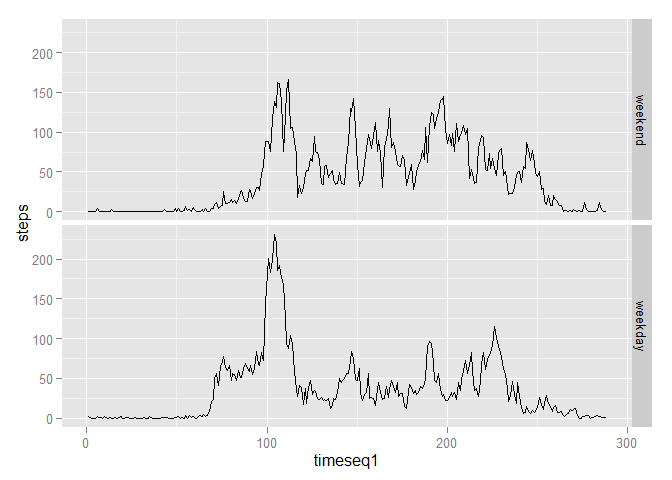
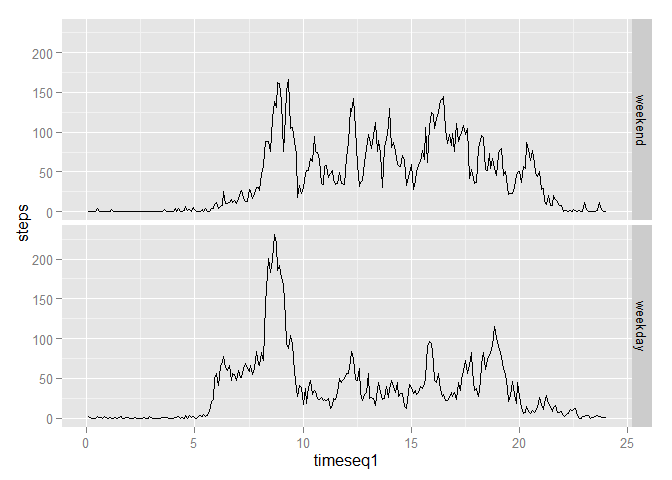
new commit

diff --git a/PA1_template.html b/PA1_template.html
@@ -98,10 +98,11 @@ print(mm)</code></pre>
 averageperinterval=dcast(datamelt,interval~variable,mean)
 #time sequence
 timeseq=1:nrow(averageperinterval)
+timeseq=timeseq*5/60
 #make the plot
 plot(timeseq,averageperinterval$steps,type=&quot;l&quot;,xlab=&quot;5-minute interval index&quot;,
      ylab=&quot;average steps&quot;,main=&quot;average steps by 5-minute intervals&quot;)</code></pre>
[2 lines of base64/hex data omitted]
 <pre class="r"><code>#find the maximun value
 x=averageperinterval[averageperinterval$steps==max(averageperinterval$steps),]
 print(x)</code></pre>
@@ -148,7 +149,7 @@ print(mm)</code></pre>
 <pre class="r"><code>#create a factor column to identify if the date is weekend or not
 newdataset$weekday=logical(nrow(newdataset))
 newdataset$date=as.Date(newdataset$date)
-newdataset$weekday=!weekdays(newdataset$date)%in%c(&quot;星期六&quot;,&quot;星期日&quot;) #Change it into Sat or whatever
+newdataset$weekday=!weekdays(newdataset$date)%in%c(&quot;星期六&quot;,&quot;星期日&quot;) #Change it into &quot;Sat&quot; or whatever
 newdataset$weekday=as.factor(newdataset$weekday)
 levels(newdataset$weekday)=c(&quot;weekend&quot;,&quot;weekday&quot;)
 #calculate average steps by 5-minute intervals
@@ -158,6 +159,7 @@ averageperinterval1=dcast(datamelt1,interval+weekday~variable,mean)
 #time sequence
 timeseq1=1:(nrow(averageperinterval1)/2)
 timeseq1=rep(timeseq1,each=2)
+timeseq1=timeseq1*5/60
 averageperinterval1=cbind(timeseq1,averageperinterval1)
 #make the plot
 library(ggplot2)
@@ -165,7 +167,7 @@ g=ggplot(averageperinterval1,aes(timeseq1,steps))
 g=g+geom_line()
 g=g+facet_grid(weekday~.)
 g</code></pre>
[2 lines of base64/hex data omitted]
 <p>We can see from the plot that on weekdays, there are more steps made around 8:30(100th interval or so) and less from 11:40(140th interval or so) to 17:00(200th interval or so).</p>
 </div>
 

diff --git a/PA1_template.md b/PA1_template.md
@@ -49,6 +49,7 @@ In this part, I make a plot first to show the average steps made in every 5-minu
 averageperinterval=dcast(datamelt,interval~variable,mean)
 #time sequence
 timeseq=1:nrow(averageperinterval)
+timeseq=timeseq*5/60
 #make the plot
 plot(timeseq,averageperinterval$steps,type="l",xlab="5-minute interval index",
      ylab="average steps",main="average steps by 5-minute intervals")
@@ -129,7 +130,7 @@ This part is to compare if there is any difference of movement pattern between w
 #create a factor column to identify if the date is weekend or not
 newdataset$weekday=logical(nrow(newdataset))
 newdataset$date=as.Date(newdataset$date)
-newdataset$weekday=!weekdays(newdataset$date)%in%c("星期六","星期日") #Change it into Sat or whatever
+newdataset$weekday=!weekdays(newdataset$date)%in%c("星期六","星期日") #Change it into "Sat" or whatever
 newdataset$weekday=as.factor(newdataset$weekday)
 levels(newdataset$weekday)=c("weekend","weekday")
 #calculate average steps by 5-minute intervals
@@ -139,6 +140,7 @@ averageperinterval1=dcast(datamelt1,interval+weekday~variable,mean)
 #time sequence
 timeseq1=1:(nrow(averageperinterval1)/2)
 timeseq1=rep(timeseq1,each=2)
+timeseq1=timeseq1*5/60
 averageperinterval1=cbind(timeseq1,averageperinterval1)
 #make the plot
 library(ggplot2)
